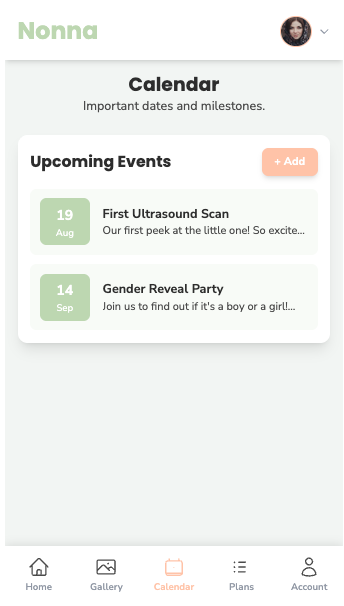
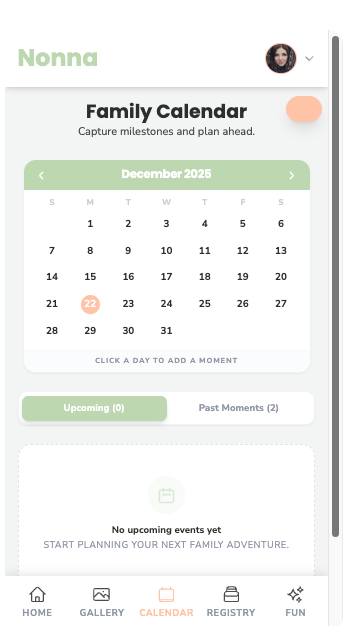
Update requirements and add prototype screens, draft notes
Expanded Requirements.md with detailed account management, OAuth, and user role features. Added new and updated prototype app screen images (Calendar, Fun, Home Screens, Registry). Introduced Draft_Notes.md outlining technical implementation and performance strategies for Supabase and Flutter integration.

diff --git a/docs/01_discovery/04_technical_requirements/Draft_Notes.md b/docs/01_discovery/04_technical_requirements/Draft_Notes.md
@@ -1,0 +1,39 @@
+# Technical implementation
+## Note 1:
+Use Supabase row level security... to let only owners update tiles... followers just query and cache data... in Riverpod with keep-alive set to true... so it sticks around until changes hit. For owners... enable realtime subscriptions... on your tile tables... broadcast updates via Postgres changes... followers get instant push notifications... no polling needed... keeps logins super fast with zero queries.
+
+## Note 2:
+Yeah… for a hundred thousand users this setup still works great… but you need a couple tweaks so it doesn't explode: 1. Followers never subscribe to realtime for all tiles… that would kill the connections. Instead, only subscribe to a tiny last-updated-timestamp row per owner (one tiny channel per owner). 2. Cache the full tile data locally with Hive or Isar on the follower's phone, plus Riverpod keep-alive. 3. When the follower opens the app, first show the cached tiles instantly (zero latency). Then do one quick check: has the owner's timestamp changed since my last cache? If no → done, still instant. If yes → pull the fresh tiles once and update cache. 4. Supabase realtime connections stay super low (maybe a few thousand max, not hundred K). Postgres changes + logical replication handles broadcasting the tiny timestamp updates without sweat. So… followers feel instant every login, owner updates push in real-time, and the backend stays happy even at a hundred K or way more.
+
+## Note 3:
+Do we need 2 layers?
+Nah, stick to one layer—keep the normalized babies/tiles tables, but add jsonb data column to tiles for pre-aggregated stuff like ```{photos: [...], votes: 42}``` that owners update via edge functions/triggers. Followers query tiles directly, realtime pushes the full tile payload. Zero sync issues, sub-100ms loads. Layers just add complexity here.
+
+## Performance:
+
+You'll want a central data provider or Riverpod to fetch visibility flags from Supabase once, then share that state across screens to avoid duplicate queries. For the tiles, use a ListView.builder with conditional rendering based on those flags—keeps it efficient even if the same tile shows on multiple tabs.
+
+Cache Supabase data locally with Hive or SharedPreferences, and sync only when needed using Supabase's realtime subscriptions. Use Riverpod or Bloc for state management with lazy loading—fetch tile data on-demand via pagination with ListView.builder and .sliver for smooth scrolling. Minimize rebuilds with const constructors, ValueKey on tiles, and precache images; enable Flutter's performance overlay in dev to spot jank. For high users, deploy Supabase edge functions for heavy queries and consider Firebase for even better scaling if needed.
+
+For faster fetch times, hit Supabase with precise queries—use .select('specific_columns') and filters like .eq('visible', true) upfront, plus pagination with .range(). Switch to realtime subscriptions over polling to push updates instantly, and cache results in Hive with a 5-minute TTL refreshed on app focus. Offload complex joins to edge functions, and test with Supabase's query performance dashboard to index hot columns.
+
+---
+
+# Supabase features:
+First, Postgres database: It's a full-featured, battle-tested relational database you control directly—think tables, joins, indexes, extensions like PostGIS for maps or pg_triggers. No black-box limits like Firebase; you write pure SQL queries, and it auto-generates REST/GraphQL APIs from your schema. Second, real-time subscriptions: Using Postgres' LISTEN/NOTIFY, it pushes live updates to your Flutter app via WebSockets. Subscribe to table changes (inserts, updates, deletes), and your UI reflects them instantly—no polling needed. Perfect for chats, dashboards, or collaborative apps. Third, built-in auth: Handles user sign-ups, logins, password resets, social providers (Google, GitHub, etc.), JWT tokens, and magic links. Integrates seamlessly with row-level security (RLS) policies in Postgres to enforce users only see their own data. Fourth, row-level security: Postgres feature Supabase enables by default. Write SQL policies like only allow reads if auth.uid() = user_id directly on tables. Granular, secure, and scales without backend code. Fifth, instant APIs: Upload your schema, and it instantly exposes typed REST and GraphQL endpoints. No extra setup—your Flutter app calls them like /rest/v1/users?select= with auto-generated SDKs. Sixth, edge functions: Serverless JavaScript/TypeScript functions run on global edge network (low latency). Trigger them from database events, auth, or HTTP—great for webhooks, custom logic, or integrations without a full backend. Seventh, storage: S3-backed file storage with image optimization (resizing, cropping via Postgres functions), signed URLs for secure uploads/downloads, and RLS integration so users only access their files. Eighth, vectors and AI: Built-in pgvector extension for storing/searching embeddings. Pair with their AI toolkit for semantic search, RAG apps, or integrating LLMs directly in your database queries.
+
+## Superbase AI Features:
+Supabase's core AI features like pgvector for storing and querying embeddings are free—included in your database usage on their Postgres. You only pay extra if you use their hosted AI tools (like the Edge AI inference API for running LLMs) or rack up massive vector storage/compute, but self-hosting or sticking to basic vectors keeps it free.
+
+### AI feature usage example: Searching pictures by descriptions
+Perfect fit—use Supabase Storage for images, generate embeddings with a free model like CLIP (run client-side in Flutter or via edge function), store them as vectors in pgvector. Then query like find beach sunset photos with semantic search: your Flutter app sends text → embeds it → Supabase matches closest image vectors instantly, all free on core Postgres.
+
+# Fixed tiles?
+Make each tile a self-contained widget with its own targeted Supabase query
+
+Make them dynamic—store tile configs in Supabase like {'type': 'recent_activities', 'visible': true, 'limit': 5}, then owners edit via a simple dashboard. Render with a factory switch: if type=='photos' use PhotoGridTile else ActivityListTile—zero hardcoding, total flexibility for owners to mix/match without app updates. Way more scalable for your user base. Sound good? 
+
+### But there can be different kind of tiles and each might show different type of contents. Will that be a problem with performance?
+Nah, not with three to four tiles—use a TileFactory that precaches builders for each type, so switch('recent_photos') just pulls a ready ListView.builder with pagination. Lazy load content inside each tile only when visible (VisibilityDetector), and share a single Supabase realtime channel for all updates. Keeps it snappy even with mixed types.
+
+Cache the full visibility map in-memory with Riverpod's autoDispose, and use FadeInImage for any tile assets to preload smoothly. You'll hit sub-100ms loads easy.

diff --git a/docs/01_discovery/01_requirements/Requirements.md b/docs/01_discovery/01_requirements/Requirements.md
@@ -15,14 +15,18 @@ The application will have two primary user roles with distinct permissions:
 -   Can manage the list of followers (view, resend, and revoke invitations).
 -   Have full control over the content of their baby profile, including the calendar, baby registry, photo gallery and fun (add, edit, delete).
 -   Can delete comments made by any user on their baby profile's content.
--   Cannot remove themselves as an owner if they are the only owner of a baby profile. Must delete baby profile, and when baby profile doesn't have any owners it automatically gets deactivated
+-   Owners receive priority notifications for profile changes, follower actions, and security events (e.g., failed login attempts).
+-   Support bulk resend/revoke of invitations for efficiency.
+-   Owners can export baby profile data (e.g., photos, calendar) before deletion.
+-   Owners can delete their account, but must transfer (to another owner) or delete baby profiles first to avoid data loss.
 
 ### 2.2. Friends & Family (Followers)
 
 -   Can only access a baby profile after accepting an email invitation.
 -   Upon acceptance, users must provide their relationship (e.g., Grandma, Grandpa, Aunt, Uncle, Godmother, Godfather, Family Friend) from a predefined list. 
 -   Can view the baby profile, calendar, baby registry, photo gallery and fun.
--   Can interact with content by RSVPing to events, commenting, "squishing" photos (liking), marking registry items as purchased, voting in gender/birthdate/name and suggesting names. 
+-   Can interact with content by RSVPing to events, commenting, "squishing" photos (liking), marking registry items as purchased, voting in gender/birthdate/name and suggesting names.
+-   Followers can only suggest one unique name per gender per baby profile.
 -   Cannot create, edit, or delete baby profiles, events, registry items, photos or fun.
 -   Cannot invite or manage other followers.
 -   Can remove themselves from a baby profile at any time.
@@ -31,11 +35,19 @@ The application will have two primary user roles with distinct permissions:
 
 ### 3.1. Account Creation and Management
 
--   Users must be able to create an account with a unique email and a password (minimum 6 characters, with at least one number or special character).
--   Email verification is required for new accounts before the first login.
--   Passwords must be securely hashed.
--   Users must be able to log in with their registered credentials.
--   A secure password reset option via email must be available.
+-   Users must be able to create an account with a unique email and a password (minimum 6 characters, with at least one number or special character), or alternatively via Google or Facebook OAuth integration.
+-   For email/password accounts, email verification is required for new accounts before the first login. For social logins, account creation is immediate upon OAuth approval, but users must verify their email within 7 days to maintain access (send verification link to the email associated with the social account).
+-   Passwords must be securely hashed using industry-standard algorithms (e.g., bcrypt or Argon2). Social login accounts may not have a password initially but can set one later for fallback login.
+-   Users must be able to log in with their registered credentials (email/password), or via Google/Facebook OAuth. Social logins should support seamless re-authentication without repeated prompts.
+-   If a social login matches an existing email account, prompt to merge or link accounts with user confirmation.
+-   A secure password reset option via email must be available for email/password accounts. Social login users can reset via their provider's account settings or by linking an email/password.
+-   Users can link multiple login methods (e.g., add Google/Facebook to an existing email account) for flexibility, with clear UI prompts to prevent account duplication.
+-   All social login data must comply with OAuth 2.0 standards, with user consent for profile data access (e.g., email, name). Revoke social access if the user deactivates their provider account.
+-   Social profile data (e.g., name, email) is stored only with user consent and can be deleted on request.
+-   Handle OAuth failures (e.g., provider downtime) with clear user messages and fallback to email/password.
+-   Implement rate limiting and fraud detection for login attempts across all methods to prevent abuse.
+-   Users must accept terms of service and privacy policy during signup for all account types.
+-   Implement secure logout for all methods, with automatic session expiration after inactivity (e.g., 30 days).
 
 ### 3.2. Baby Profile
 
@@ -114,7 +126,7 @@ The application will have two primary user roles with distinct permissions:
 
 -   Top right of the screen has photo that has dropdown which allows user to easily switch between baby profiles.
 -   Sort ordered should be with Baby profiles owned on top, and baby profiles followed below
--   once a selection is made, a filter should be applied to the rest of the app that shows only content that belongs to that baby profile selcted
+-   once a selection is made, a filter should be applied to the rest of the app that shows only content that belongs to that baby profile selected
 
 ### 3.12. Filtering Baby Profiles
 
